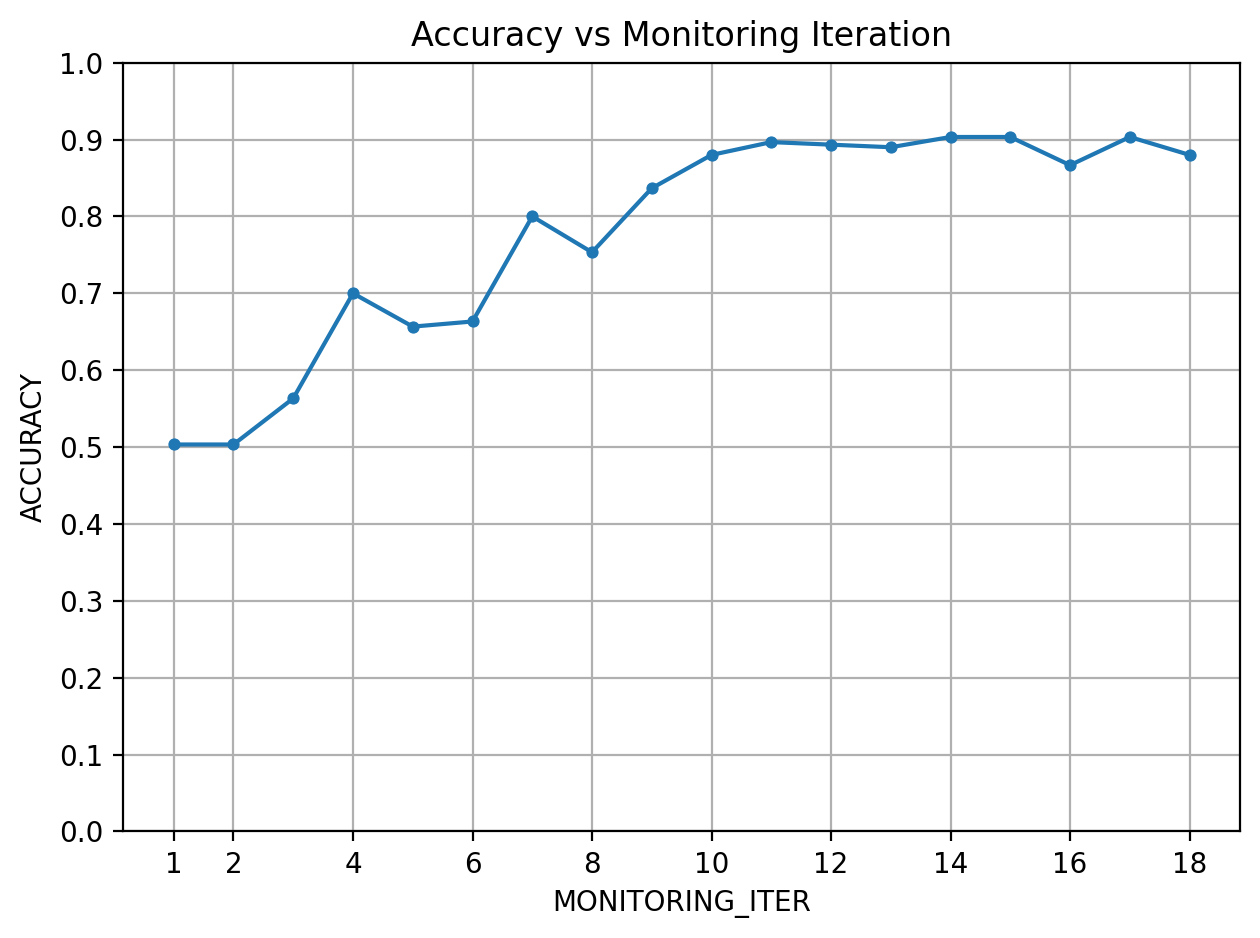
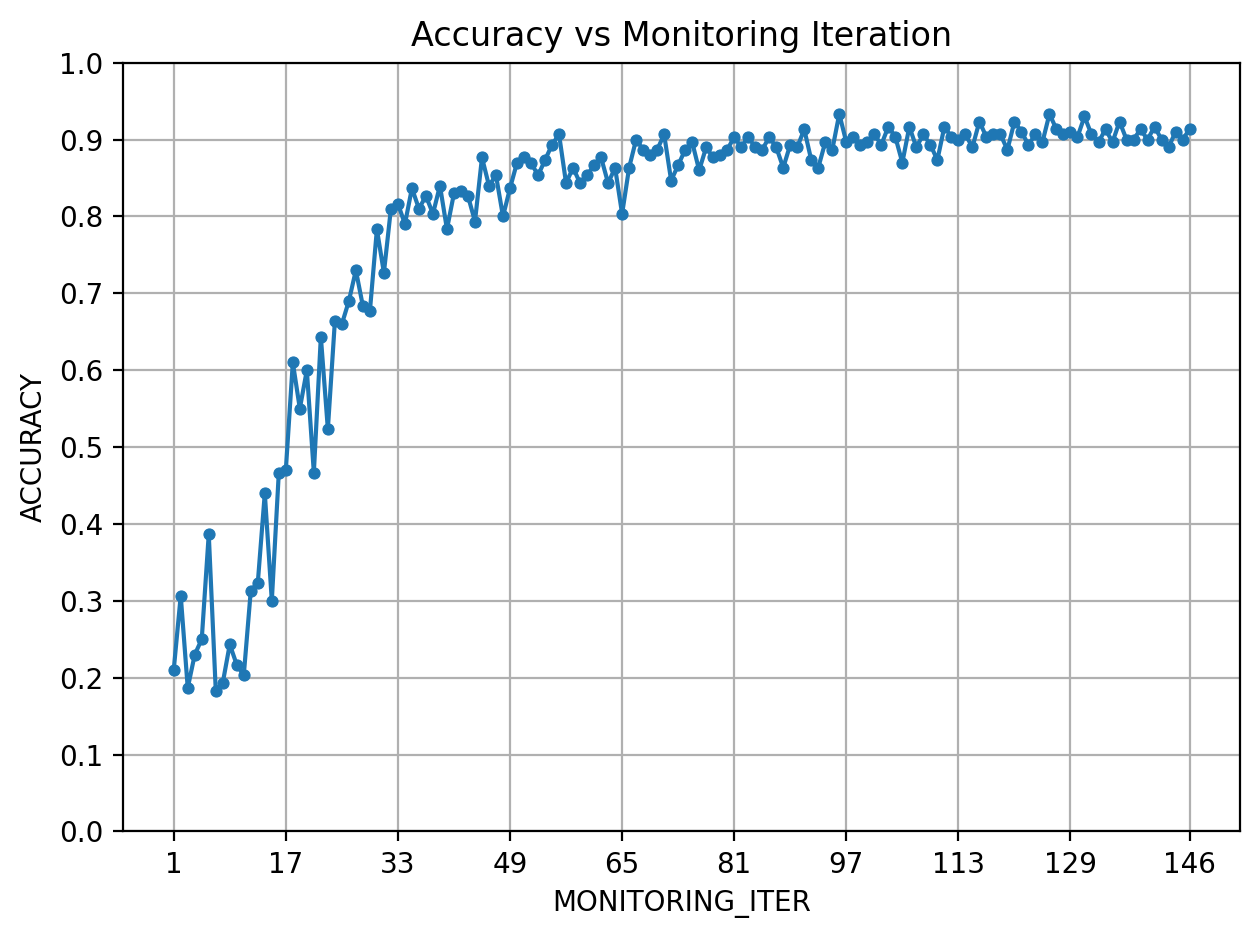
gbng

diff --git a/java/src/main/java/dl4j_models/Dl4jModelFactory.java b/java/src/main/java/dl4j_models/Dl4jModelFactory.java
@@ -117,6 +117,7 @@ public class Dl4jModelFactory {
 			// model = createLetterModel70K(workerId);
 
 		} else if ("mnist5".equals(DATASET)) {	// Forward pass cost: CPU => 200ms / GPU => 30ms  
+
 			// model = createMNISTModelMLP(workerId);
 			// model = createMNISTModelMLPSimple_1(workerId);
 			// model = createMNISTModelMLPSimple_2(workerId);
@@ -129,8 +130,9 @@ public class Dl4jModelFactory {
 			// model = createMNIST5Cnn_New_2(workerId);		// 0.89
 			// model = createMNIST5Cnn_New_3(workerId);		//
 			// model = createMNIST5Cnn_New_4(workerId);		// 0.915
-			// model = createMNIST5Cnn_New_4_without_2_Dense(workerId);	
+			model = createMNIST5Cnn_New_4_without_2_Dense(workerId);	
 
+			// Bad Experimentation ================================================================
 			// model = createMNIST5Cnn_New_5(workerId);		// 0.385 with GlobalPooling Layer
 			// model = createMNIST5Cnn_New_6(workerId);		// 86%
 			// model = createMNIST5Cnn_New_7(workerId); 		// 0.37, with GlobalPooling Layer
@@ -141,7 +143,7 @@ public class Dl4jModelFactory {
 			// model = createMNIST5Cnn_New_12(workerId);		// 0.935
 			// model = createDenseModel_1(workerId);
 			// model = createMNIST5Cnn_New_13(workerId);		// Accuracy:0.92333335
-			model = createMNIST5Cnn_New_14(workerId);		// Accuracy:0.933
+			// model = createMNIST5Cnn_New_14(workerId);		// Accuracy:0.933
 
 	// ======================================================================================================================
 
@@ -165,7 +167,7 @@ public class Dl4jModelFactory {
 			// model = createMNIST5Cnn_New_14(workerId); // bestAccuracy: 0.69
 			// model = createDenseModel_1(workerId);	// 0.6066667
 
-			cfg.USING_PRETRAINED_MODEL = true;
+			cfg.USING_PRETRAINED_MODEL = false;
 			
 			if(cfg.USING_PRETRAINED_MODEL) {
 				
